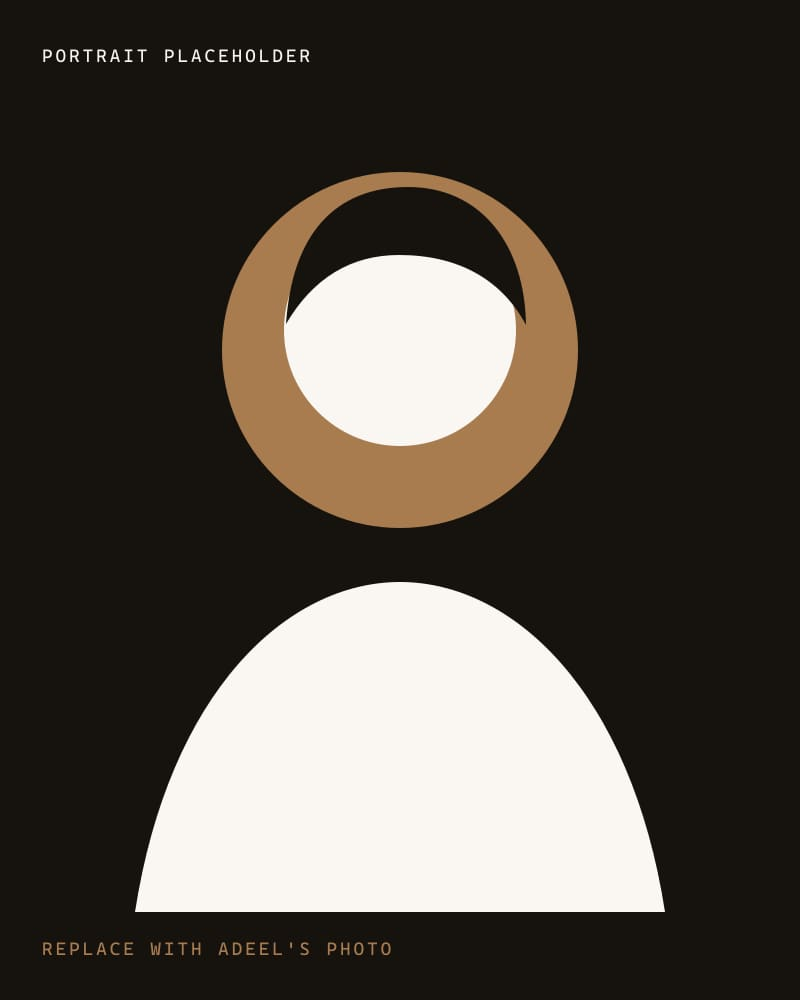
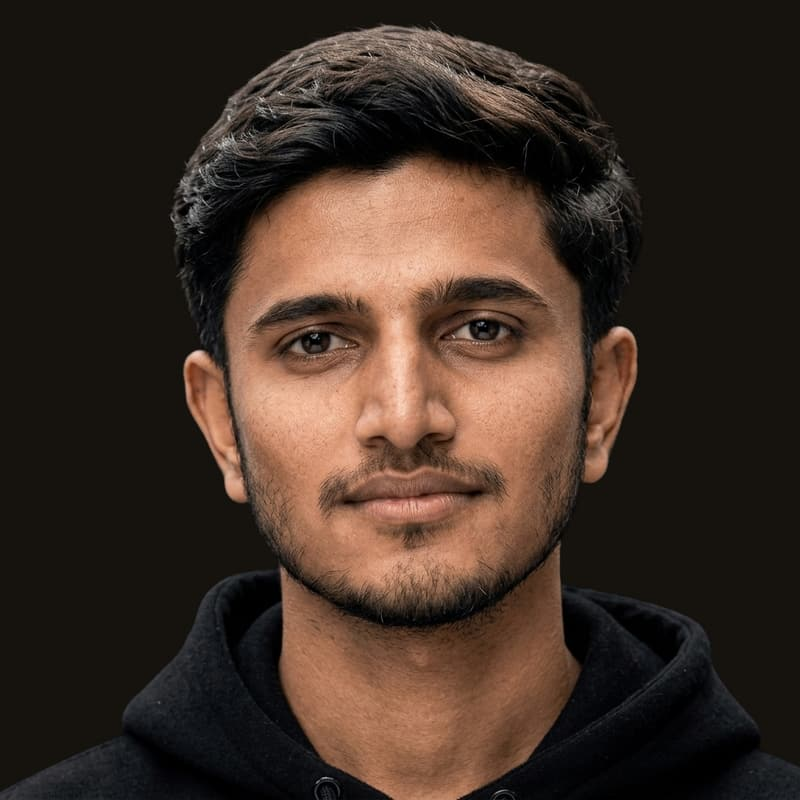
Update Site source

diff --git a/dist/index.html b/dist/index.html
@@ -309,7 +309,12 @@
         <h2 id="about-title" class="display-heading">One designer. No agency, no account <em>managers.</em></h2>
       </header>
       <div class="about-grid">
-        <figure class="about-portrait image-grade"><img src="assets/portrait.jpg" width="800" height="1000" loading="lazy" decoding="async" alt="Adeel, web designer for salons"><figcaption class="mono">PORTRAIT PLACEHOLDER — REPLACE BEFORE PUBLIC LAUNCH</figcaption></figure>
+        <figure class="about-portrait image-grade">
+          <picture>
+            <source type="image/webp" srcset="assets/portrait-480.webp 480w, assets/portrait-800.webp 800w" sizes="(max-width: 767px) 100vw, 40vw">
+            <img src="assets/portrait-800.jpg" srcset="assets/portrait-480.jpg 480w, assets/portrait-800.jpg 800w" sizes="(max-width: 767px) 100vw, 40vw" width="800" height="800" loading="lazy" decoding="async" alt="Adeel, web designer for salons">
+          </picture>
+        </figure>
         <div class="about-copy"><p>I'm Muhammad Adeel Tariq, Adeel to everyone I work with. I run Adeel Builds, and I build websites only for salons, clinics and barbershops, so every design decision is about one thing: turning people who find you on Google into bookings you don't pay commission on.</p><p>You deal with me directly, from the first free mockup to the day your site goes live, and after it.</p><a class="text-link" href="#contact">Tell me about your salon</a></div>
       </div>
     </section>
@@ -338,7 +343,7 @@
     <section id="contact" class="section contact-section below-fold" aria-labelledby="contact-title">
       <div class="section-rule" aria-hidden="true"></div>
       <span class="section-index mono">07 / START A PROJECT</span>
-      <div class="contact-heading-row"><h2 id="contact-title" class="display-heading">Let's see your salon as a <em>website.</em></h2><div class="reply-note"><img src="assets/portrait.jpg" width="120" height="120" alt="" loading="lazy" decoding="async"><p>Adeel replies personally, within one working day.</p></div></div>
+      <div class="contact-heading-row"><h2 id="contact-title" class="display-heading">Let's see your salon as a <em>website.</em></h2><div class="reply-note"><picture><source type="image/webp" srcset="assets/portrait-480.webp 480w, assets/portrait-800.webp 800w" sizes="80px"><img src="assets/portrait-480.jpg" width="480" height="480" alt="" loading="lazy" decoding="async"></picture><p>Adeel replies personally, within one working day.</p></div></div>
       <div class="contact-grid">
         <div class="contact-intro"><p>Tell me your salon's name and I'll design your homepage mockup free. No sales call, no obligation. I send the mockup, you decide.</p><div class="direct-links"><a class="button button-dark magnetic" href="https://wa.me/923019664099?text=Hi%20Adeel%2C%20I%27m%20interested%20in%20a%20free%20mockup%20for%20my%20salon." target="_blank" rel="noopener">WhatsApp me</a><a class="button button-ghost magnetic" href="mailto:adeelbuilds@gmail.com">adeelbuilds@gmail.com</a></div></div>
         <form id="contact-form" class="contact-form" novalidate>

diff --git a/index.html b/index.html
@@ -309,7 +309,12 @@
         <h2 id="about-title" class="display-heading">One designer. No agency, no account <em>managers.</em></h2>
       </header>
       <div class="about-grid">
-        <figure class="about-portrait image-grade"><img src="assets/portrait.jpg" width="800" height="1000" loading="lazy" decoding="async" alt="Adeel, web designer for salons"><figcaption class="mono">PORTRAIT PLACEHOLDER — REPLACE BEFORE PUBLIC LAUNCH</figcaption></figure>
+        <figure class="about-portrait image-grade">
+          <picture>
+            <source type="image/webp" srcset="assets/portrait-480.webp 480w, assets/portrait-800.webp 800w" sizes="(max-width: 767px) 100vw, 40vw">
+            <img src="assets/portrait-800.jpg" srcset="assets/portrait-480.jpg 480w, assets/portrait-800.jpg 800w" sizes="(max-width: 767px) 100vw, 40vw" width="800" height="800" loading="lazy" decoding="async" alt="Adeel, web designer for salons">
+          </picture>
+        </figure>
         <div class="about-copy"><p>I'm Muhammad Adeel Tariq, Adeel to everyone I work with. I run Adeel Builds, and I build websites only for salons, clinics and barbershops, so every design decision is about one thing: turning people who find you on Google into bookings you don't pay commission on.</p><p>You deal with me directly, from the first free mockup to the day your site goes live, and after it.</p><a class="text-link" href="#contact">Tell me about your salon</a></div>
       </div>
     </section>
@@ -338,7 +343,7 @@
     <section id="contact" class="section contact-section below-fold" aria-labelledby="contact-title">
       <div class="section-rule" aria-hidden="true"></div>
       <span class="section-index mono">07 / START A PROJECT</span>
-      <div class="contact-heading-row"><h2 id="contact-title" class="display-heading">Let's see your salon as a <em>website.</em></h2><div class="reply-note"><img src="assets/portrait.jpg" width="120" height="120" alt="" loading="lazy" decoding="async"><p>Adeel replies personally, within one working day.</p></div></div>
+      <div class="contact-heading-row"><h2 id="contact-title" class="display-heading">Let's see your salon as a <em>website.</em></h2><div class="reply-note"><picture><source type="image/webp" srcset="assets/portrait-480.webp 480w, assets/portrait-800.webp 800w" sizes="80px"><img src="assets/portrait-480.jpg" width="480" height="480" alt="" loading="lazy" decoding="async"></picture><p>Adeel replies personally, within one working day.</p></div></div>
       <div class="contact-grid">
         <div class="contact-intro"><p>Tell me your salon's name and I'll design your homepage mockup free. No sales call, no obligation. I send the mockup, you decide.</p><div class="direct-links"><a class="button button-dark magnetic" href="https://wa.me/923019664099?text=Hi%20Adeel%2C%20I%27m%20interested%20in%20a%20free%20mockup%20for%20my%20salon." target="_blank" rel="noopener">WhatsApp me</a><a class="button button-ghost magnetic" href="mailto:adeelbuilds@gmail.com">adeelbuilds@gmail.com</a></div></div>
         <form id="contact-form" class="contact-form" novalidate>

diff --git a/dist/style.css b/dist/style.css
@@ -169,8 +169,9 @@ input[type="range"]::-moz-range-thumb { width: 1rem; height: 1rem; border: 2px s
 .about-section { background: #ede6dc; }
 .about-grid { display: grid; grid-template-columns: minmax(16rem, .8fr) 1.2fr; gap: clamp(2rem, 8vw, 9rem); align-items: center; }
 .about-portrait { position: relative; margin: 0; aspect-ratio: 4 / 5; overflow: hidden; background: var(--bronze); }
-.about-portrait img { width: 100%; height: 100%; object-fit: cover; }
-.about-portrait figcaption { position: absolute; z-index: 3; bottom: 1rem; left: 1rem; right: 1rem; padding: .7rem; background: var(--ivory); }
+.about-portrait picture, .about-portrait img { width: 100%; height: 100%; }
+.about-portrait picture { display: block; }
+.about-portrait img { object-fit: cover; object-position: 50% 32%; }
 .about-copy p { margin: 0 0 1.5rem; font-size: clamp(1.25rem, 2.5vw, 2.2rem); line-height: 1.25; letter-spacing: -.025em; }
 .text-link { display: inline-block; padding-bottom: .25rem; border-bottom: 1px solid var(--ink); font: 500 .75rem/1 var(--mono); letter-spacing: .04em; text-transform: uppercase; }
 
@@ -189,6 +190,7 @@ input[type="range"]::-moz-range-thumb { width: 1rem; height: 1rem; border: 2px s
 .contact-section > .section-index { display: block; margin-bottom: 2rem; }
 .contact-heading-row { display: grid; grid-template-columns: 1fr 12rem; gap: 3rem; align-items: end; }
 .contact-heading-row .display-heading { max-width: 10ch; font-size: clamp(3.4rem, 9vw, 9rem); }
+.reply-note picture { display: block; width: 5rem; height: 5rem; flex: 0 0 5rem; }
 .reply-note img { width: 5rem; height: 5rem; border-radius: 50%; object-fit: cover; border: 1px solid var(--ink); }
 .reply-note p { font-size: .8rem; }
 .contact-grid { margin-top: clamp(4rem, 8vw, 8rem); display: grid; grid-template-columns: .9fr 1.1fr; gap: clamp(3rem, 9vw, 10rem); }

diff --git a/style.css b/style.css
@@ -169,8 +169,9 @@ input[type="range"]::-moz-range-thumb { width: 1rem; height: 1rem; border: 2px s
 .about-section { background: #ede6dc; }
 .about-grid { display: grid; grid-template-columns: minmax(16rem, .8fr) 1.2fr; gap: clamp(2rem, 8vw, 9rem); align-items: center; }
 .about-portrait { position: relative; margin: 0; aspect-ratio: 4 / 5; overflow: hidden; background: var(--bronze); }
-.about-portrait img { width: 100%; height: 100%; object-fit: cover; }
-.about-portrait figcaption { position: absolute; z-index: 3; bottom: 1rem; left: 1rem; right: 1rem; padding: .7rem; background: var(--ivory); }
+.about-portrait picture, .about-portrait img { width: 100%; height: 100%; }
+.about-portrait picture { display: block; }
+.about-portrait img { object-fit: cover; object-position: 50% 32%; }
 .about-copy p { margin: 0 0 1.5rem; font-size: clamp(1.25rem, 2.5vw, 2.2rem); line-height: 1.25; letter-spacing: -.025em; }
 .text-link { display: inline-block; padding-bottom: .25rem; border-bottom: 1px solid var(--ink); font: 500 .75rem/1 var(--mono); letter-spacing: .04em; text-transform: uppercase; }
 
@@ -189,6 +190,7 @@ input[type="range"]::-moz-range-thumb { width: 1rem; height: 1rem; border: 2px s
 .contact-section > .section-index { display: block; margin-bottom: 2rem; }
 .contact-heading-row { display: grid; grid-template-columns: 1fr 12rem; gap: 3rem; align-items: end; }
 .contact-heading-row .display-heading { max-width: 10ch; font-size: clamp(3.4rem, 9vw, 9rem); }
+.reply-note picture { display: block; width: 5rem; height: 5rem; flex: 0 0 5rem; }
 .reply-note img { width: 5rem; height: 5rem; border-radius: 50%; object-fit: cover; border: 1px solid var(--ink); }
 .reply-note p { font-size: .8rem; }
 .contact-grid { margin-top: clamp(4rem, 8vw, 8rem); display: grid; grid-template-columns: .9fr 1.1fr; gap: clamp(3rem, 9vw, 10rem); }

diff --git a/README.md b/README.md
@@ -14,7 +14,6 @@ Then open the local URL printed in the terminal. Any static HTTP server also wor
 
 ## Replace before public launch
 
-- `assets/portrait.jpg` is a deliberately labelled placeholder. Replace it with Adeel's real portrait, keeping the same filename and ideally an 800×1000 crop.
 - `FORM_ENDPOINT` at the top of `script.js` is empty. In this state, the form correctly opens WhatsApp with the submitted details. Add an HTTPS form endpoint only if direct form POST delivery is wanted.
 - The canonical URL, Open Graph URL/image, JSON-LD URL and sitemap currently use the private Sites deployment URL. Replace them if a custom public domain is connected.
 
@@ -31,3 +30,5 @@ The fixed contact constants are at the top of `script.js` and mirrored in one co
 ## Asset notes
 
 The six editorial images were generated specifically for this site. Each has 640, 960 and 1440 pixel WebP and JPG variants. The HTML uses `<picture>`, responsive `srcset`, explicit dimensions and lazy loading below the fold.
+
+`assets/myimage.png` is Adeel's source portrait. The site serves optimized 480 and 800 pixel WebP/JPG derivatives while preserving the original file.
